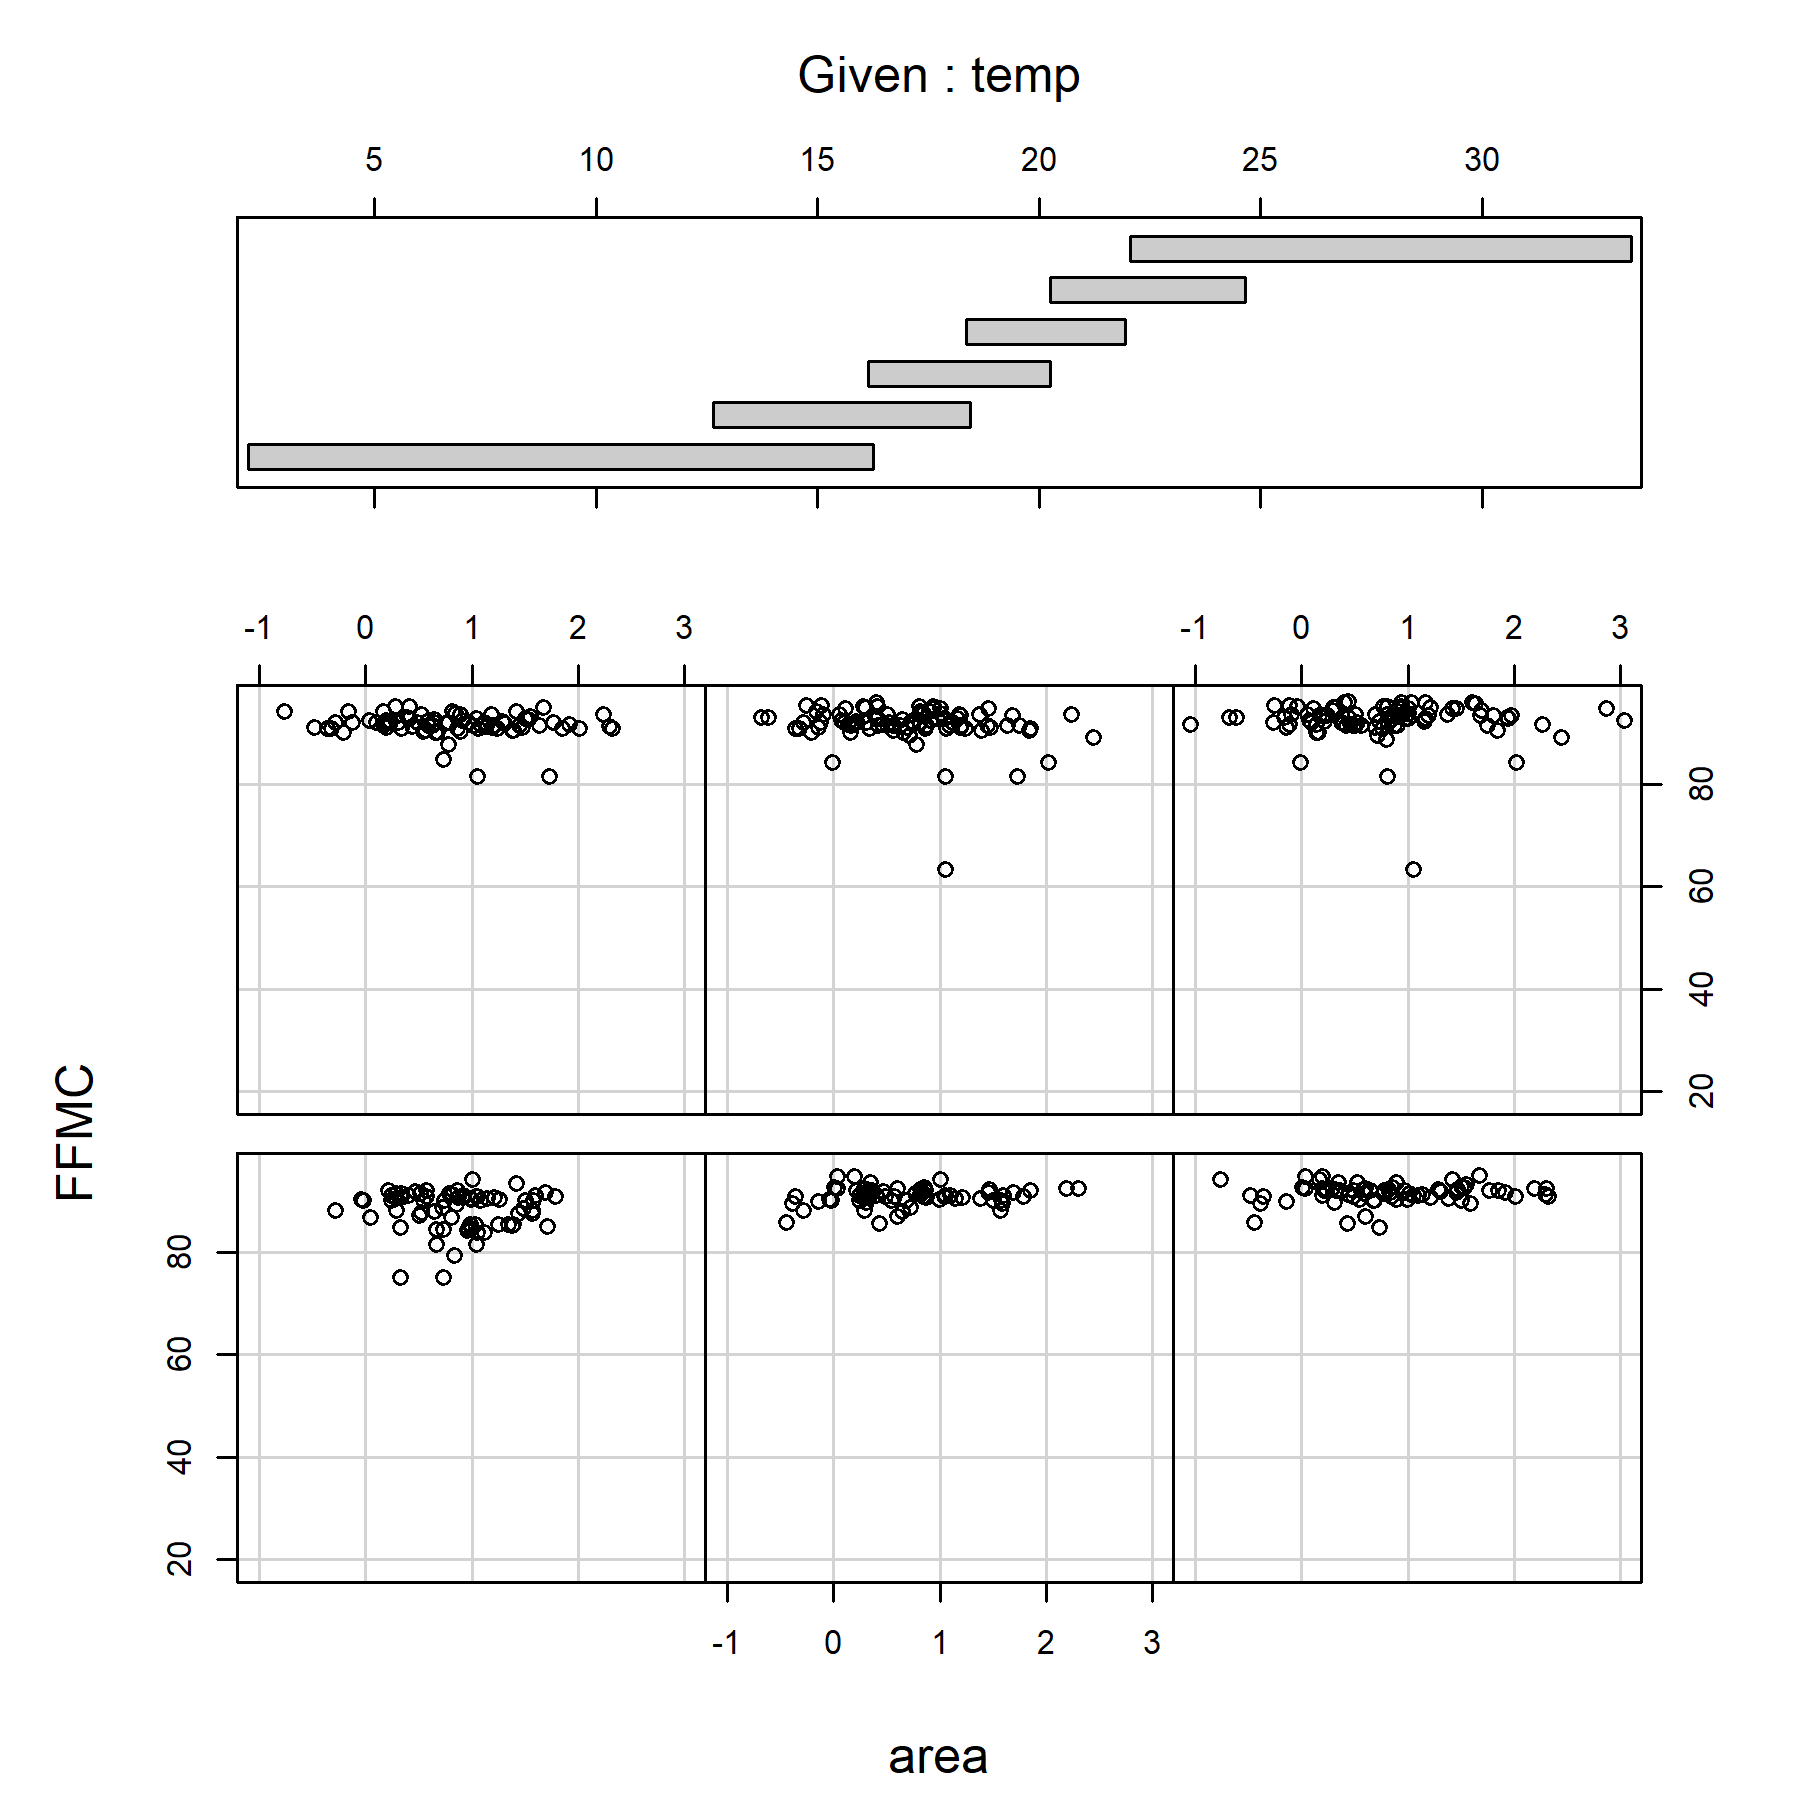
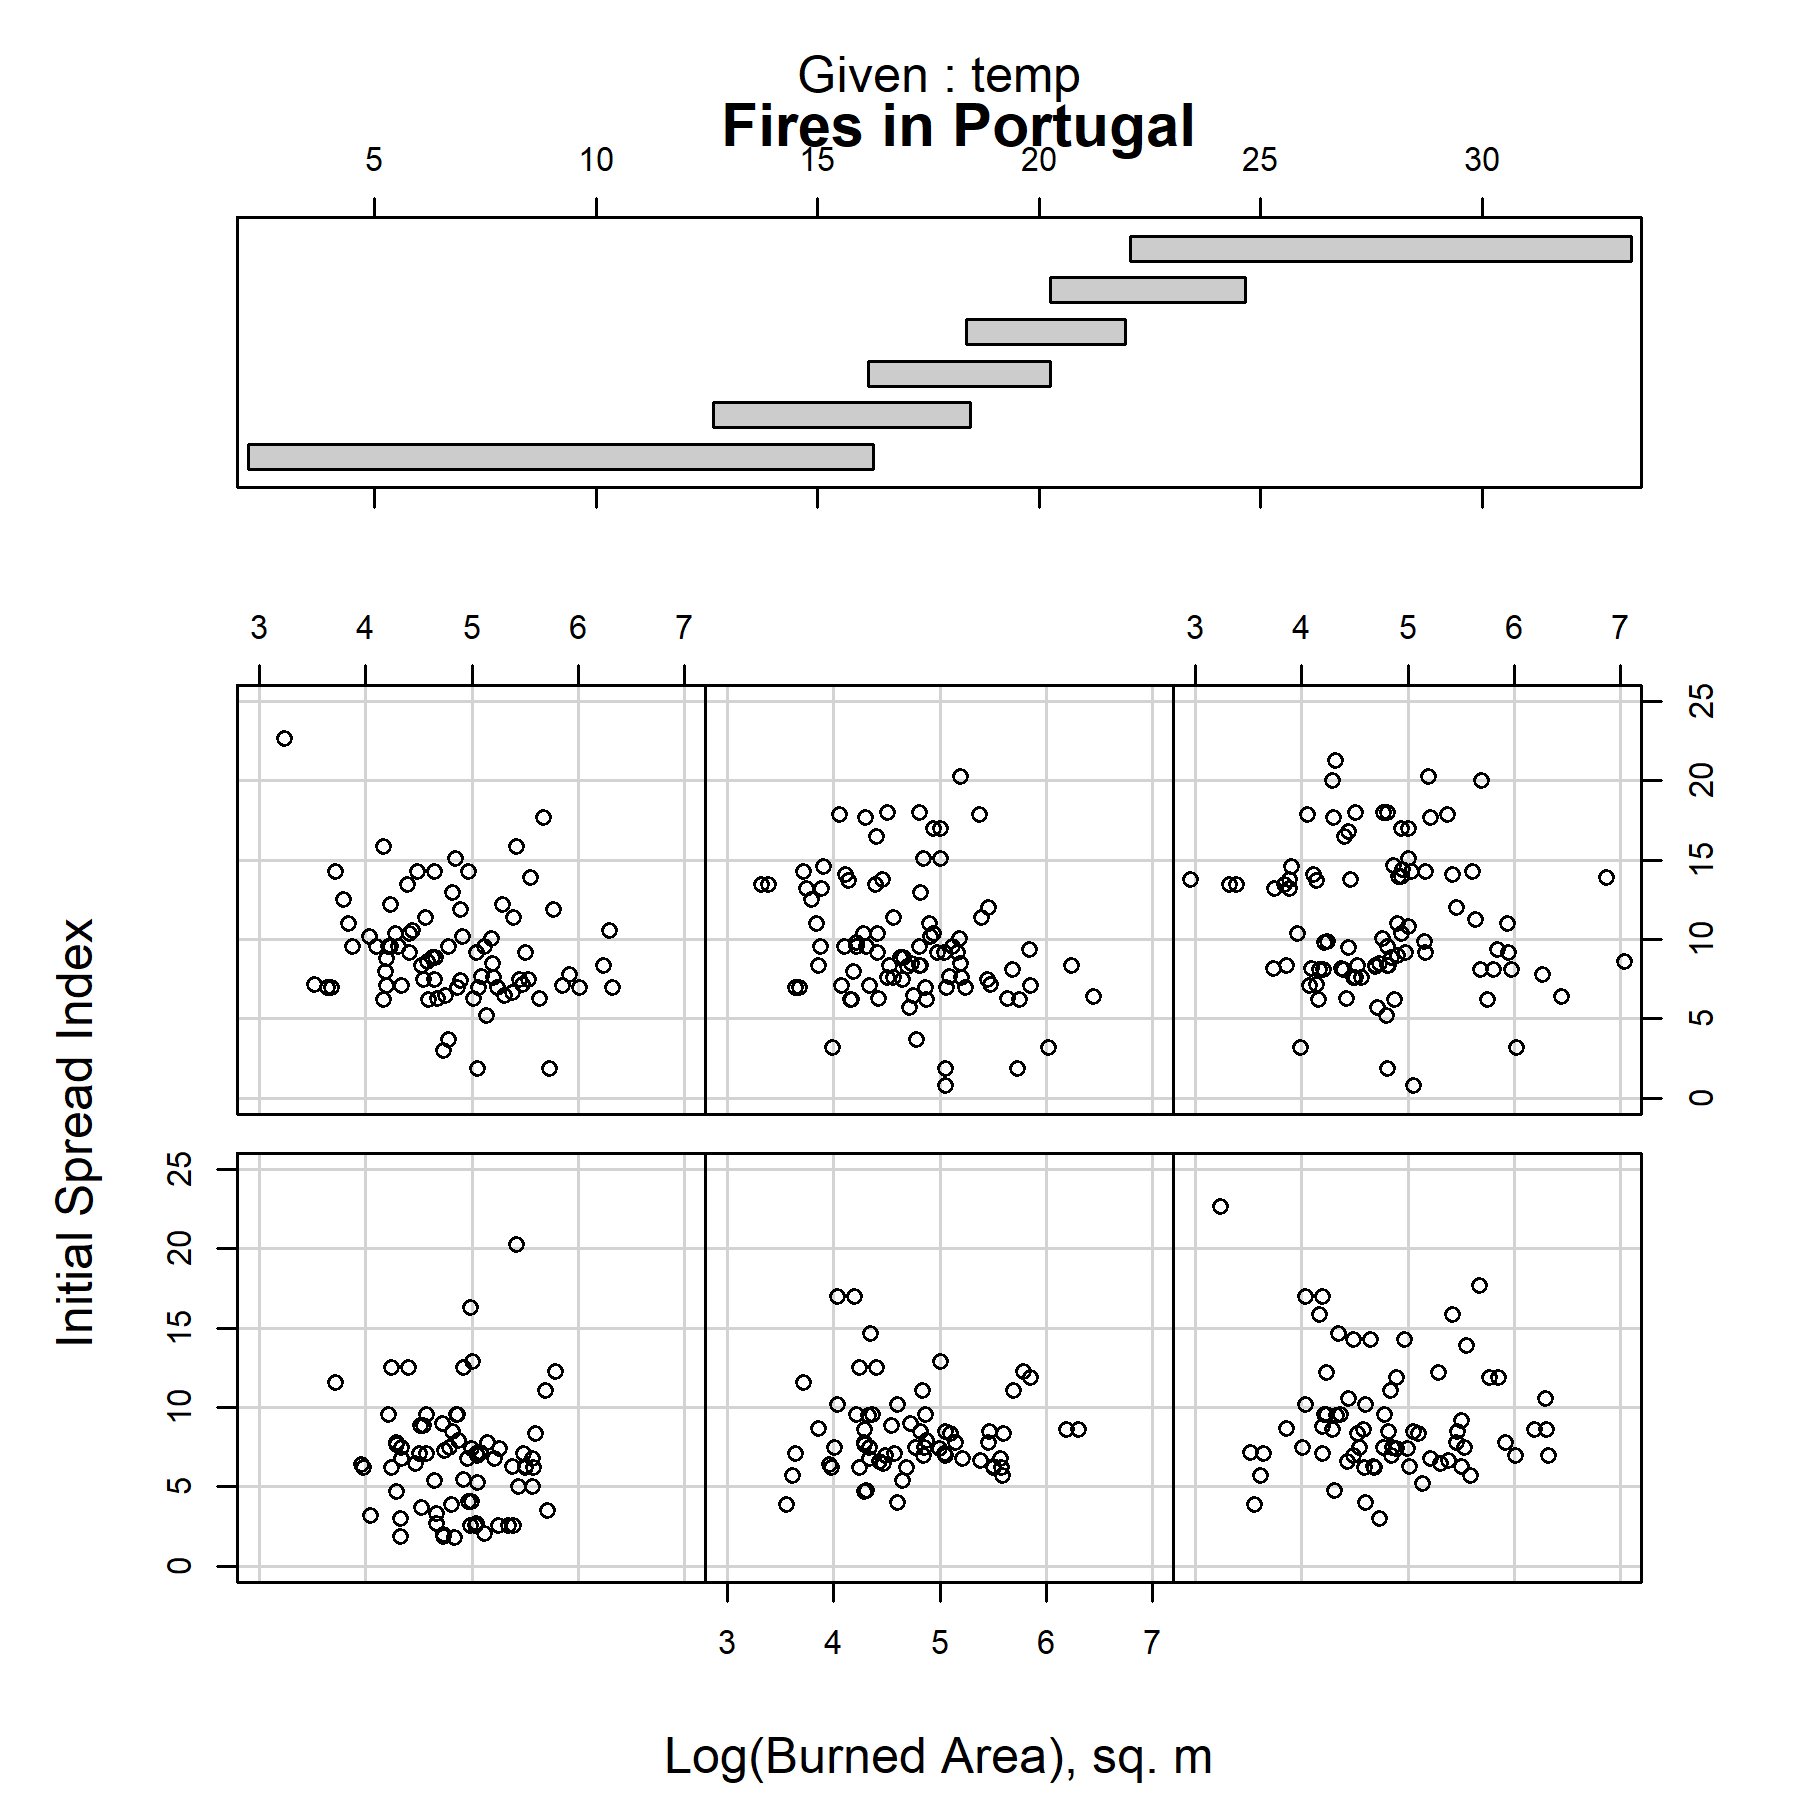
D6 explore plot

diff --git a/reports/D6-report.md b/reports/D6-report.md
@@ -10,16 +10,18 @@ the relationship between temperature, the Fine Fuel Moisture code
 (FFMC), and the resulting burned area.
 [Data](https://archive.ics.uci.edu/ml/machine-learning-databases/forest-fires/)
 is from fires in the Montesinho natural park in Portugal, taken from
-2000 to 2003 (Cortez and Morais, [2007](#ref-Cortez:2007)).
+2000 to 2003 (Cortez and Morais, [2007](#ref-Cortez:2007)). Each of the
+517 dots represents a fire event with environmental data evaluated near
+the time of ignition.
 
 <img src="../figures/D6-fires-coplot.png" width="80%" />
 
 As temperature increases, fires tend to burn a greater area. In the
-bottom left panel, corresponding to 0C-17C, no fire burned over \#\#
-area. When the temperature increases, the largest fires get even larger.
-In the top right panel, corresponding to 22-34C, the largest fires burn
-over \#\# area. Burned area is skewed to smaller values, as small fires
-are much more common than large fires.
+bottom left panel, corresponding to 0C-17C, no fire burned over 100
+hectares. When the temperature increases, the largest fires get even
+larger. In the top right panel, corresponding to 22-34C, the largest
+fires burn over 1000 hectares. Burned area is skewed to smaller values,
+as small fires are much more common than large fires.
 
 Fine fuel coisture code (FFMC) is a metric included in the Canadian
 forest fire weather index (FWI) system, commonly used to rate fire
@@ -50,16 +52,16 @@ Data requirements: D6 multivariate
   - Categorical variables are possible, depending on the graph type.
 
 A conditional plot is appropriate for this data set because it explores
-the correlation between three continuous quantitative variables. Burned
-area (the variable of interest) is placed on the x-axis to facilitate
-easier comparison across the panels.
+the correlation or dependence between three continuous quantitative
+variables. Burned area (the ‘output’ variable) is placed on the x-axis
+to facilitate easier comparison across the panels. Like all of the other
+plots in this portfolio, it uses similar design choices for consistency
+and emphazising the data.
 
 **Graph improvements**
 
-  - labels and units on axis
   - caption for sourcing
   - consistent font size
-  - expand y-axis. for some reason it squishes everything at the top
 
 ## References
 
